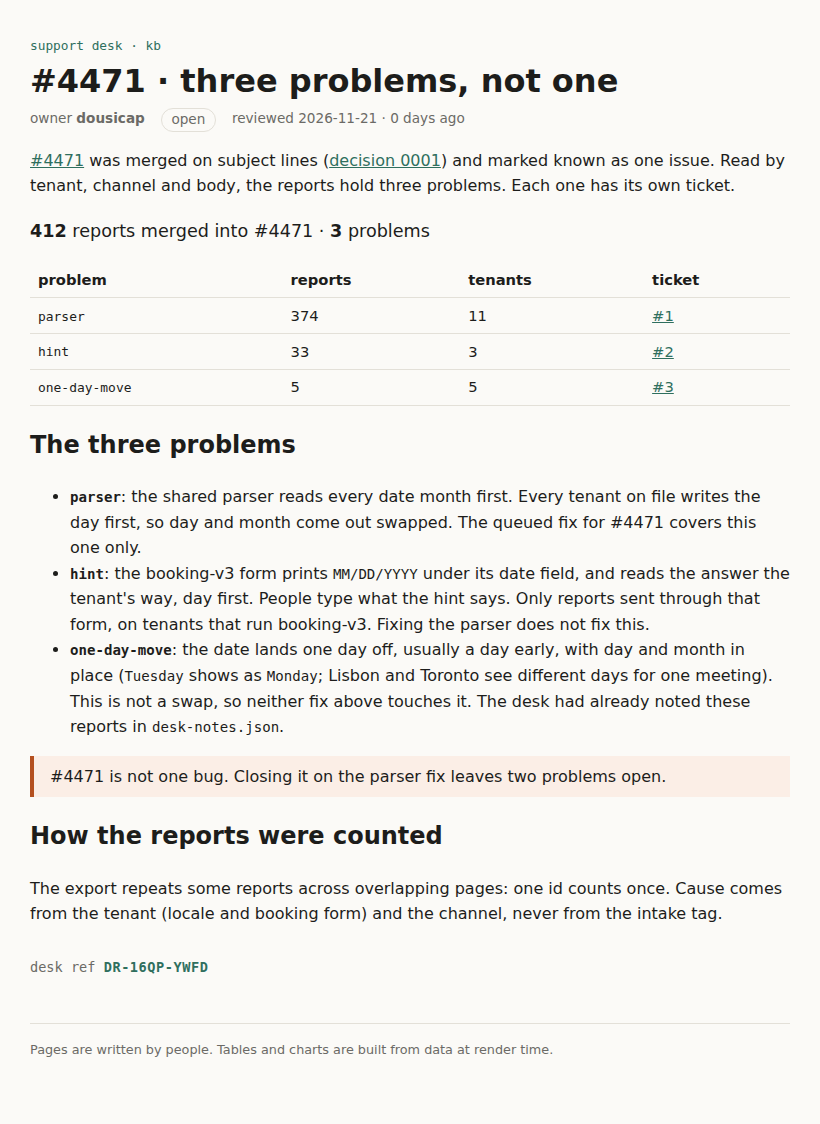
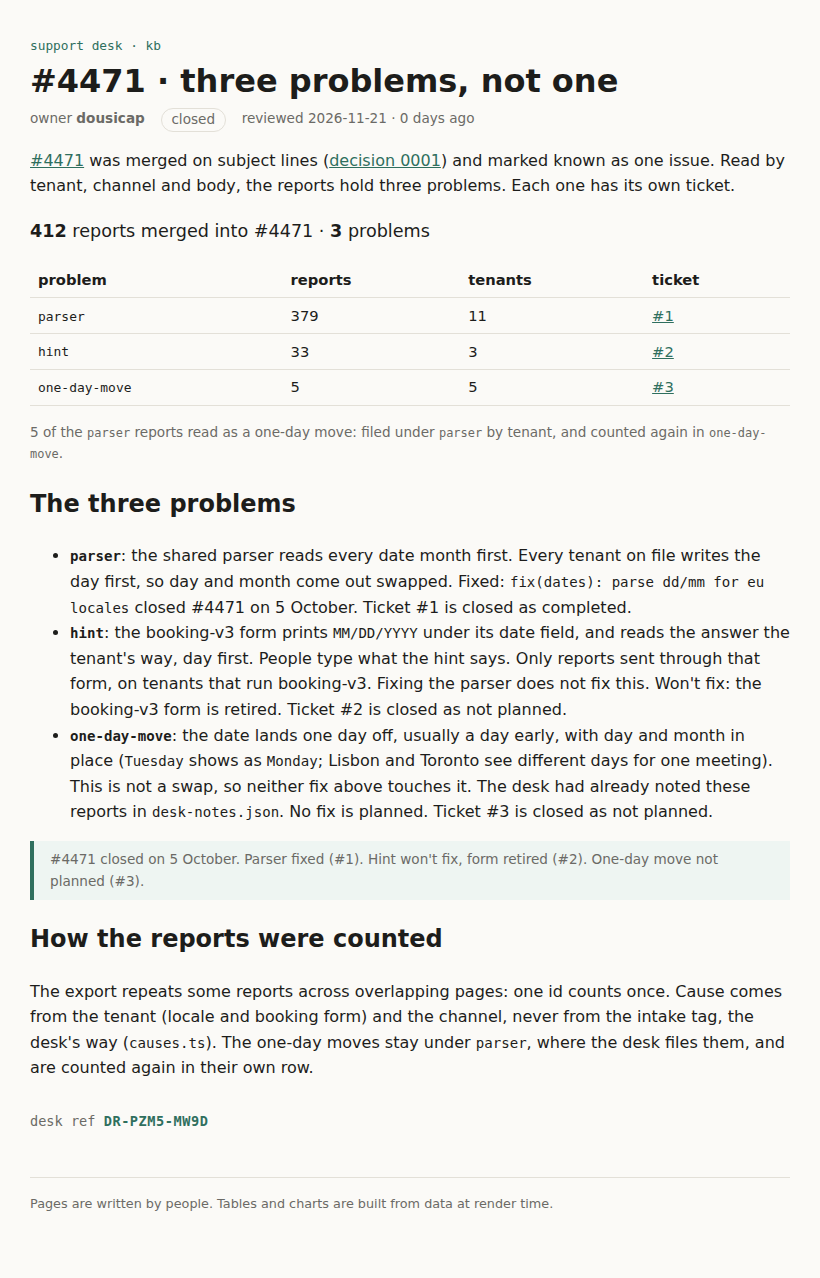
kb: sign page with challenge ticket, count the desk's way, reflect closed tickets

Changed region(s): [[0.0305, 0.0311, 0.9756, 0.9653]]

diff --git a/rendered/4471-problems.html b/rendered/4471-problems.html
@@ -23,11 +23,11 @@
   .stale { color: var(--warn); font-weight: 600; }
   .banner { background: var(--warn-bg); color: var(--warn); padding: 0.6rem 1rem; border-radius: 6px; }
   footer { margin-top: 3rem; color: var(--muted); font-size: 0.8rem; border-top: 1px solid var(--line); padding-top: 1rem; }
-.sum{font-size:1.1rem}aside{border-left:4px solid var(--accent);padding:.5rem 1rem;margin:1rem 0;background:var(--note-bg)}aside.warn{border-color:var(--warn);background:var(--warn-bg)}.stamp{margin:2rem 0 0;font:.85rem var(--mono);color:var(--muted)}.stamp b{color:var(--accent);letter-spacing:.04em}</style></head><body><div class="kb"><header><a class="crumb" href="/kb">support desk · kb</a><h1>#4471 · three problems, not one</h1><p class="meta"><span>owner <b>dousicap</b></span><span class="status open">open</span><span class="">reviewed 2026-11-21 · 0 days ago</span></p></header><main><p><a href="/kb/incidents/4471">#4471</a> was merged on subject lines (<a href="/kb/decisions/0001-dedupe-by-subject">decision 0001</a>) and marked known as one issue. Read by tenant, channel and body, the reports hold three problems. Each one has its own ticket.</p>
-<p class="sum"><strong>412</strong> reports merged into #4471 · <strong>3</strong> problems</p><table><thead><tr><th>problem</th><th>reports</th><th>tenants</th><th>ticket</th></tr></thead><tbody><tr><td><code>parser</code></td><td>374</td><td>11</td><td><a href="https://github.com/dousicap/mega-what-it-shows/issues/1">#1</a></td></tr><tr><td><code>hint</code></td><td>33</td><td>3</td><td><a href="https://github.com/dousicap/mega-what-it-shows/issues/2">#2</a></td></tr><tr><td><code>one-day-move</code></td><td>5</td><td>5</td><td><a href="https://github.com/dousicap/mega-what-it-shows/issues/3">#3</a></td></tr></tbody></table>
+.sum{font-size:1.1rem}aside{border-left:4px solid var(--accent);padding:.5rem 1rem;margin:1rem 0;background:var(--note-bg)}aside.warn{border-color:var(--warn);background:var(--warn-bg)}.stamp{margin:2rem 0 0;font:.85rem var(--mono);color:var(--muted)}.stamp b{color:var(--accent);letter-spacing:.04em}.note{color:var(--muted);font-size:.85em}</style></head><body><div class="kb"><header><a class="crumb" href="/kb">support desk · kb</a><h1>#4471 · three problems, not one</h1><p class="meta"><span>owner <b>dousicap</b></span><span class="status closed">closed</span><span class="">reviewed 2026-11-21 · 0 days ago</span></p></header><main><p><a href="/kb/incidents/4471">#4471</a> was merged on subject lines (<a href="/kb/decisions/0001-dedupe-by-subject">decision 0001</a>) and marked known as one issue. Read by tenant, channel and body, the reports hold three problems. Each one has its own ticket.</p>
+<p class="sum"><strong>412</strong> reports merged into #4471 · <strong>3</strong> problems</p><table><thead><tr><th>problem</th><th>reports</th><th>tenants</th><th>ticket</th></tr></thead><tbody><tr><td><code>parser</code></td><td>379</td><td>11</td><td><a href="https://github.com/dousicap/mega-what-it-shows/issues/1">#1</a></td></tr><tr><td><code>hint</code></td><td>33</td><td>3</td><td><a href="https://github.com/dousicap/mega-what-it-shows/issues/2">#2</a></td></tr><tr><td><code>one-day-move</code></td><td>5</td><td>5</td><td><a href="https://github.com/dousicap/mega-what-it-shows/issues/3">#3</a></td></tr></tbody></table><p class="note">5 of the <code>parser</code> reports read as a one-day move: filed under <code>parser</code> by tenant, and counted again in <code>one-day-move</code>.</p>
 <h2>The three problems</h2>
-<ul><li><strong><code>parser</code></strong>: the shared parser reads every date month first. Every tenant on file writes the day first, so day and month come out swapped. The queued fix for #4471 covers this one only.</li><li><strong><code>hint</code></strong>: the booking-v3 form prints <code>MM/DD/YYYY</code> under its date field, and reads the answer the tenant's way, day first. People type what the hint says. Only reports sent through that form, on tenants that run booking-v3. Fixing the parser does not fix this.</li><li><strong><code>one-day-move</code></strong>: the date lands one day off, usually a day early, with day and month in place (<code>Tuesday</code> shows as <code>Monday</code>; Lisbon and Toronto see different days for one meeting). This is not a swap, so neither fix above touches it. The desk had already noted these reports in <code>desk-notes.json</code>.</li></ul>
-<aside class="warn">#4471 is not one bug. Closing it on the parser fix leaves two problems open.</aside>
+<ul><li><strong><code>parser</code></strong>: the shared parser reads every date month first. Every tenant on file writes the day first, so day and month come out swapped. Fixed: <code>fix(dates): parse dd/mm for eu locales</code> closed #4471 on 5 October. Ticket #1 is closed as completed.</li><li><strong><code>hint</code></strong>: the booking-v3 form prints <code>MM/DD/YYYY</code> under its date field, and reads the answer the tenant's way, day first. People type what the hint says. Only reports sent through that form, on tenants that run booking-v3. Fixing the parser does not fix this. Won't fix: the booking-v3 form is retired. Ticket #2 is closed as not planned.</li><li><strong><code>one-day-move</code></strong>: the date lands one day off, usually a day early, with day and month in place (<code>Tuesday</code> shows as <code>Monday</code>; Lisbon and Toronto see different days for one meeting). This is not a swap, so neither fix above touches it. The desk had already noted these reports in <code>desk-notes.json</code>. No fix is planned. Ticket #3 is closed as not planned.</li></ul>
+<aside class="note">#4471 closed on 5 October. Parser fixed (#1). Hint won't fix, form retired (#2). One-day move not planned (#3).</aside>
 <h2>How the reports were counted</h2>
-<p>The export repeats some reports across overlapping pages: one id counts once. Cause comes from the tenant (locale and booking form) and the channel, never from the intake tag.</p>
-<p class="stamp">desk ref <b>DR-16QP-YWFD</b></p></main><footer>Pages are written by people. Tables and charts are built from data at render time.</footer></div></body></html>
+<p>The export repeats some reports across overlapping pages: one id counts once. Cause comes from the tenant (locale and booking form) and the channel, never from the intake tag, the desk's way (<code>causes.ts</code>). The one-day moves stay under <code>parser</code>, where the desk files them, and are counted again in their own row.</p>
+<p class="stamp">desk ref <b>DR-PZM5-MW9D</b></p></main><footer>Pages are written by people. Tables and charts are built from data at render time.</footer></div></body></html>

diff --git a/src/lib/kb/ProblemSplit.svelte b/src/lib/kb/ProblemSplit.svelte
@@ -1,21 +1,18 @@
 <script lang="ts">
   import reports from '#lib/data/reports-4471.json';
   import notes from '#lib/data/desk-notes.json';
-  import { groupByCause, uniqueById, type Report } from '#lib/kb/causes';
+  import { groupByCause, readAs, uniqueById, type Report } from '#lib/kb/causes';
   import { tenantOf } from '#lib/kb/locales';
 
-  // One row per problem merged into the ticket. A one-day move (desk-notes.json) is not a flipped
-  // month, so it is its own problem, not a footnote under the tenant's cause.
+  // One row per problem merged into the ticket, counted the desk's way (causes.ts). A one-day move
+  // (desk-notes.json) stays filed under its tenant's cause and also gets its own row.
   let { ticket, issues }: { ticket: number; issues: Record<string, string> } = $props();
 
   const merged = $derived(uniqueById(reports as Report[]).filter((r) => r.mergedInto === ticket));
+  const groups = $derived(groupByCause(merged, tenantOf));
   const moved = $derived(merged.filter((r) => notes.oneDayMove.includes(r.id)));
   const rows = $derived([
-    ...groupByCause(merged.filter((r) => !notes.oneDayMove.includes(r.id)), tenantOf).map((g) => ({
-      problem: g.cause as string,
-      reports: g.reports.length,
-      tenants: g.tenants,
-    })),
+    ...groups.map((g) => ({ problem: g.cause as string, reports: g.reports.length, tenants: g.tenants })),
     ...(moved.length ? [{ problem: 'one-day-move', reports: moved.length, tenants: new Set(moved.map((r) => r.tenant)).size }] : []),
   ]);
 </script>
@@ -42,6 +39,14 @@
   </tbody>
 </table>
 
+{#each groups as g (g.cause)}
+  {@const n = readAs(g, notes.oneDayMove)}
+  {#if n}
+    <p class="note">{n} of the <code>{g.cause}</code> reports read as a one-day move: filed under <code>{g.cause}</code> by tenant, and counted again in <code>one-day-move</code>.</p>
+  {/if}
+{/each}
+
 <style>
   .sum { font-size: 1.1rem; }
+  .note { color: var(--muted); font-size: 0.85em; }
 </style>

diff --git a/tools/render.py b/tools/render.py
@@ -24,14 +24,18 @@ def inline(s):
 def problem_split(kb, ticket, issues):
     d = kb + '/src/lib/data'; R = json.load(open(d + '/reports-4471.json'))
     T = {t['handle']: t for t in (json.load(open(f)) for f in glob.glob(d + '/tenants/*.json'))}
-    res = count.classify([r for r in R if r['mergedInto'] == ticket], T, set(json.load(open(d + '/desk-notes.json'))['oneDayMove']))
+    notes = set(json.load(open(d + '/desk-notes.json'))['oneDayMove'])
+    res = count.classify([r for r in R if r['mergedInto'] == ticket], T, set())  # la vue du desk (causes.ts) : pas de retrait
+    res['one-day-move'] = sorted(i for i in notes if any(i in v for v in res.values()))
     tenants = {r['id']: r['tenant'] for r in R}
     order = sorted([k for k in ('parser', 'hint', 'unplaced') if res[k]], key=lambda k: -len(res[k])) + (['one-day-move'] if res['one-day-move'] else [])
-    total = sum(len(v) for v in res.values())
+    total = sum(len(res[k]) for k in ('parser', 'hint', 'unplaced'))
+    note = ''.join(f'<p class="note">{n} of the <code>{k}</code> reports read as a one-day move: filed under <code>{k}</code> by tenant, and counted again in <code>one-day-move</code>.</p>'
+                   for k in order if k != 'one-day-move' for n in [len(set(res[k]) & set(res['one-day-move']))] if n)
     rows = ''.join(f'<tr><td><code>{k}</code></td><td>{len(res[k])}</td><td>{len({tenants[i] for i in res[k]})}</td><td>'
                    + (f'<a href="{issues[k]}">#{issues[k].split("/")[-1]}</a>' if k in issues else 'no ticket') + '</td></tr>' for k in order)
     return (f'<p class="sum"><strong>{total}</strong> reports merged into #{ticket} · <strong>{len(order)}</strong> {"problem" if len(order) == 1 else "problems"}</p>'
-            '<table><thead><tr><th>problem</th><th>reports</th><th>tenants</th><th>ticket</th></tr></thead><tbody>' + rows + '</tbody></table>')
+            '<table><thead><tr><th>problem</th><th>reports</th><th>tenants</th><th>ticket</th></tr></thead><tbody>' + rows + '</tbody></table>' + note)
 
 def render(kb, svx, today):
     src = open(svx).read()
@@ -56,7 +60,7 @@ def render(kb, svx, today):
     layout = open(kb + '/src/lib/layouts/runbook.svelte').read()
     css = re.search(r'<style>(.*?)</style>', layout, re.S)[1]
     css = re.sub(r':global\(([^()]*)\)', r'\1', css)
-    css += '.sum{font-size:1.1rem}aside{border-left:4px solid var(--accent);padding:.5rem 1rem;margin:1rem 0;background:var(--note-bg)}aside.warn{border-color:var(--warn);background:var(--warn-bg)}.stamp{margin:2rem 0 0;font:.85rem var(--mono);color:var(--muted)}.stamp b{color:var(--accent);letter-spacing:.04em}'
+    css += '.sum{font-size:1.1rem}aside{border-left:4px solid var(--accent);padding:.5rem 1rem;margin:1rem 0;background:var(--note-bg)}aside.warn{border-color:var(--warn);background:var(--warn-bg)}.stamp{margin:2rem 0 0;font:.85rem var(--mono);color:var(--muted)}.stamp b{color:var(--accent);letter-spacing:.04em}.note{color:var(--muted);font-size:.85em}'
     e = html.escape
     return (f'<!DOCTYPE html><html><head><meta charset="utf-8"><title>{e(meta["title"])} · support kb</title><style>{css}</style></head><body><div class="kb">'
             f'<header><a class="crumb" href="/kb">support desk · kb</a><h1>{e(meta["title"])}</h1><p class="meta"><span>owner <b>{e(meta["owner"])}</b></span>'
